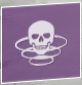
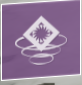
feat: 支持普通难度

diff --git a/src/TaskControl/my_directx.py b/src/TaskControl/my_directx.py
@@ -62,13 +62,15 @@ def open_map_and_switch_difficulty():
     time.sleep(0.3)
     leftClick()
 
-    # 点开难度选择
-    time.sleep(1.5)
-    move_to_and_left_click(*get_resize_bridge(1960, 1110))
-
-    # 选择大师难度
-    time.sleep(1.5)
-    move_to_and_left_click(*get_resize_bridge(455, 460))
+    if base_settings.大师难度:
+        # 点开难度选择
+        time.sleep(1.5)
+        move_to_and_left_click(*get_resize_bridge(1960, 1110))
+        # 选择大师难度
+        time.sleep(1.5)
+        move_to_and_left_click(*get_resize_bridge(455, 460))
+    else:
+        time.sleep(3.1)
 
 
 def start_next_round(reward=False):

diff --git a/src/settings.py b/src/settings.py
@@ -24,6 +24,7 @@ class BaseSettings:
     连续失败次数: int
     进图等待间隔: float
     重置进度次数: int
+    大师难度: bool
 
 
 @dataclasses.dataclass
